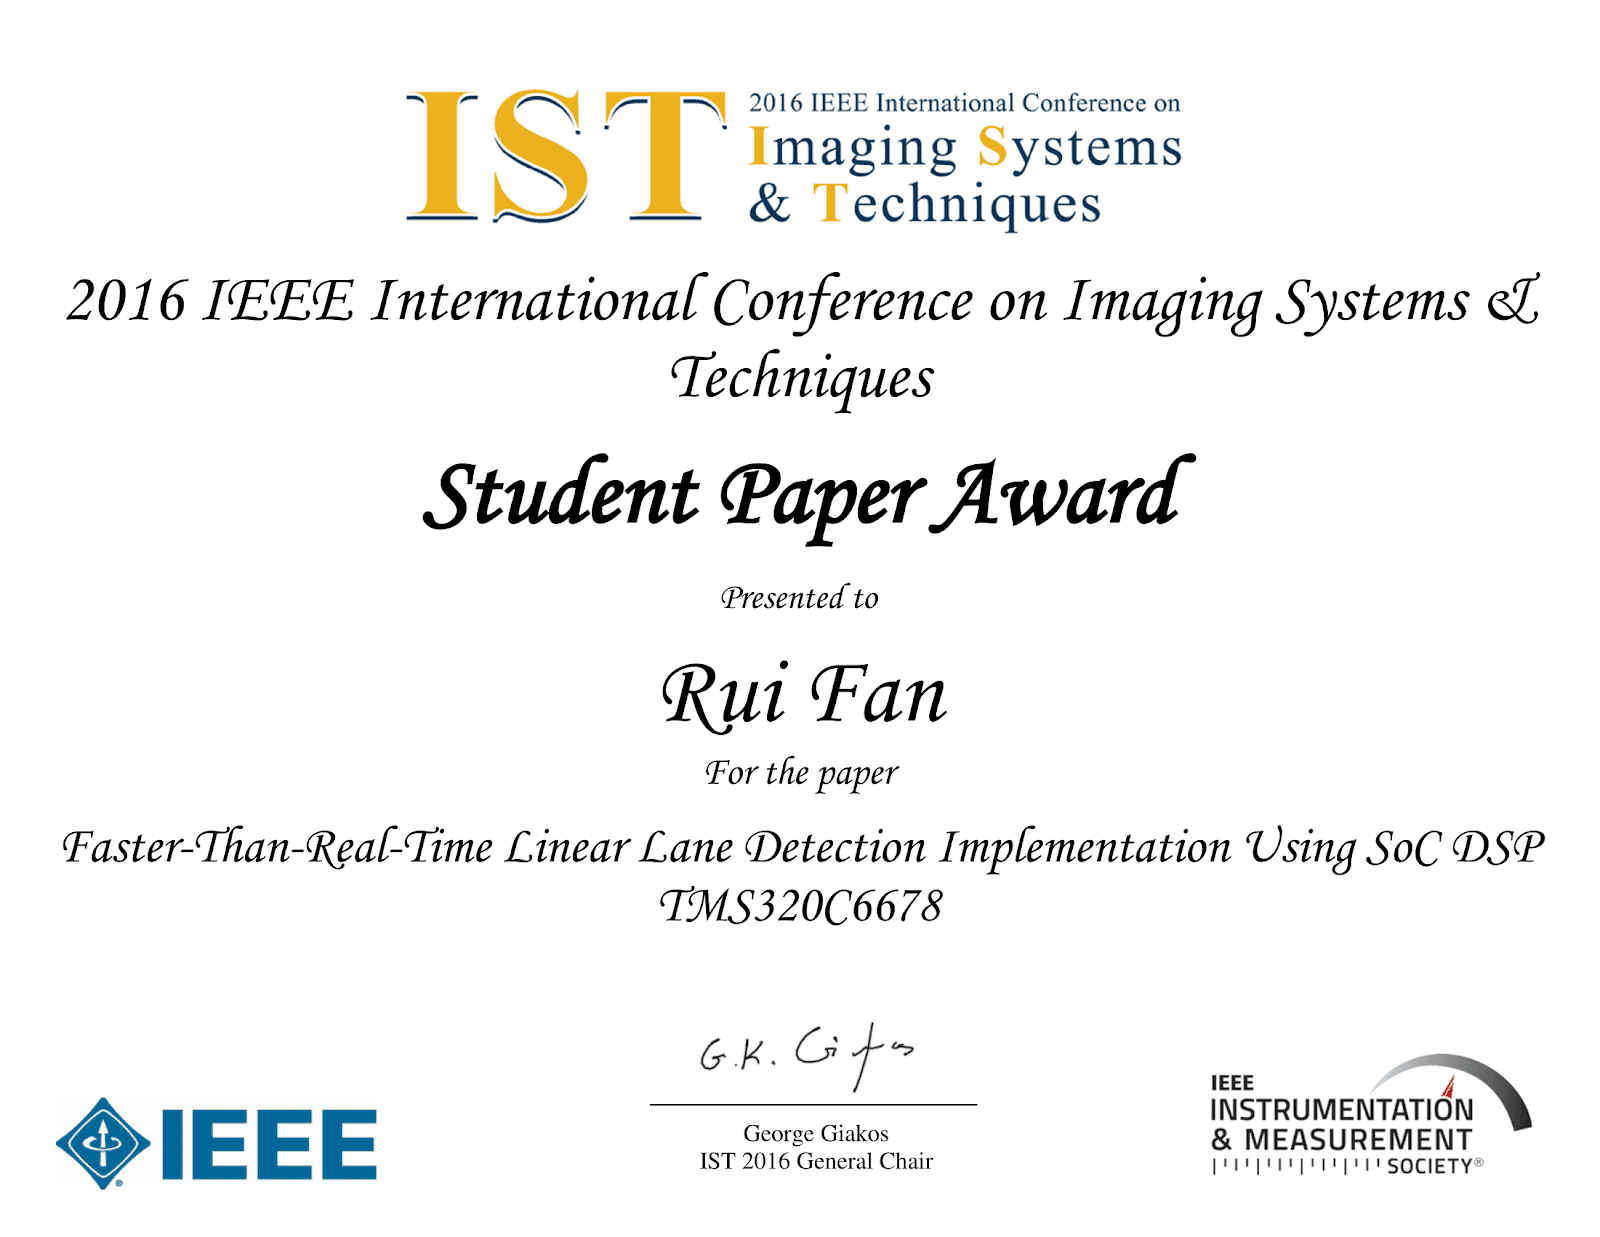
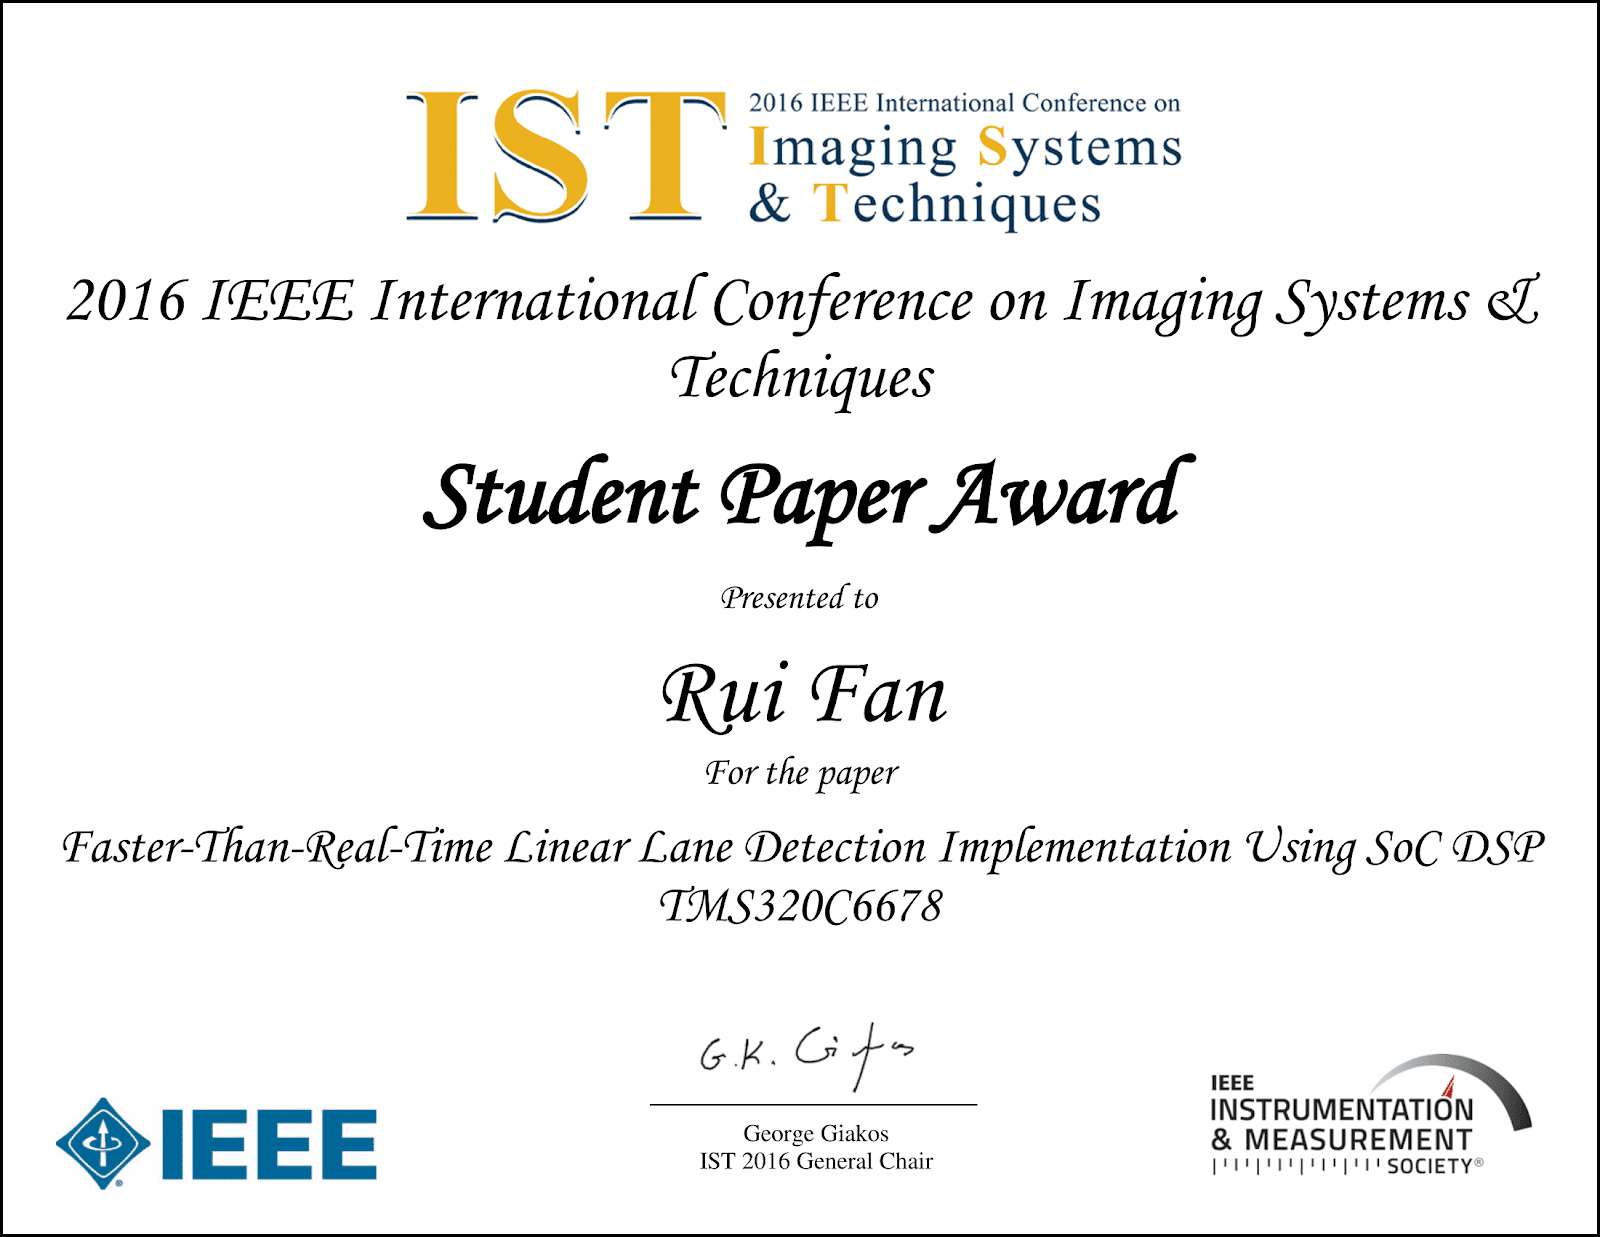
na

Changed region(s): [[0.0, 0.983, 1.0, 1.0], [0.9688, 0.0, 1.0, 0.0307], [0.0, 0.0, 0.0312, 0.0307]]

diff --git a/images/add_boundary.m b/images/add_boundary.m
@@ -1,0 +1,8 @@
+function [] = add_boundary(path, tau)
+A = imread(path);
+A(:,1:tau,1:3) = 0;
+A(:,end-tau+1:end,1:3) = 0;
+A(1:tau,:,1:3) = 0;
+A(end-tau+1:end,:,1:3) = 0;
+imwrite(A, path);
+end
